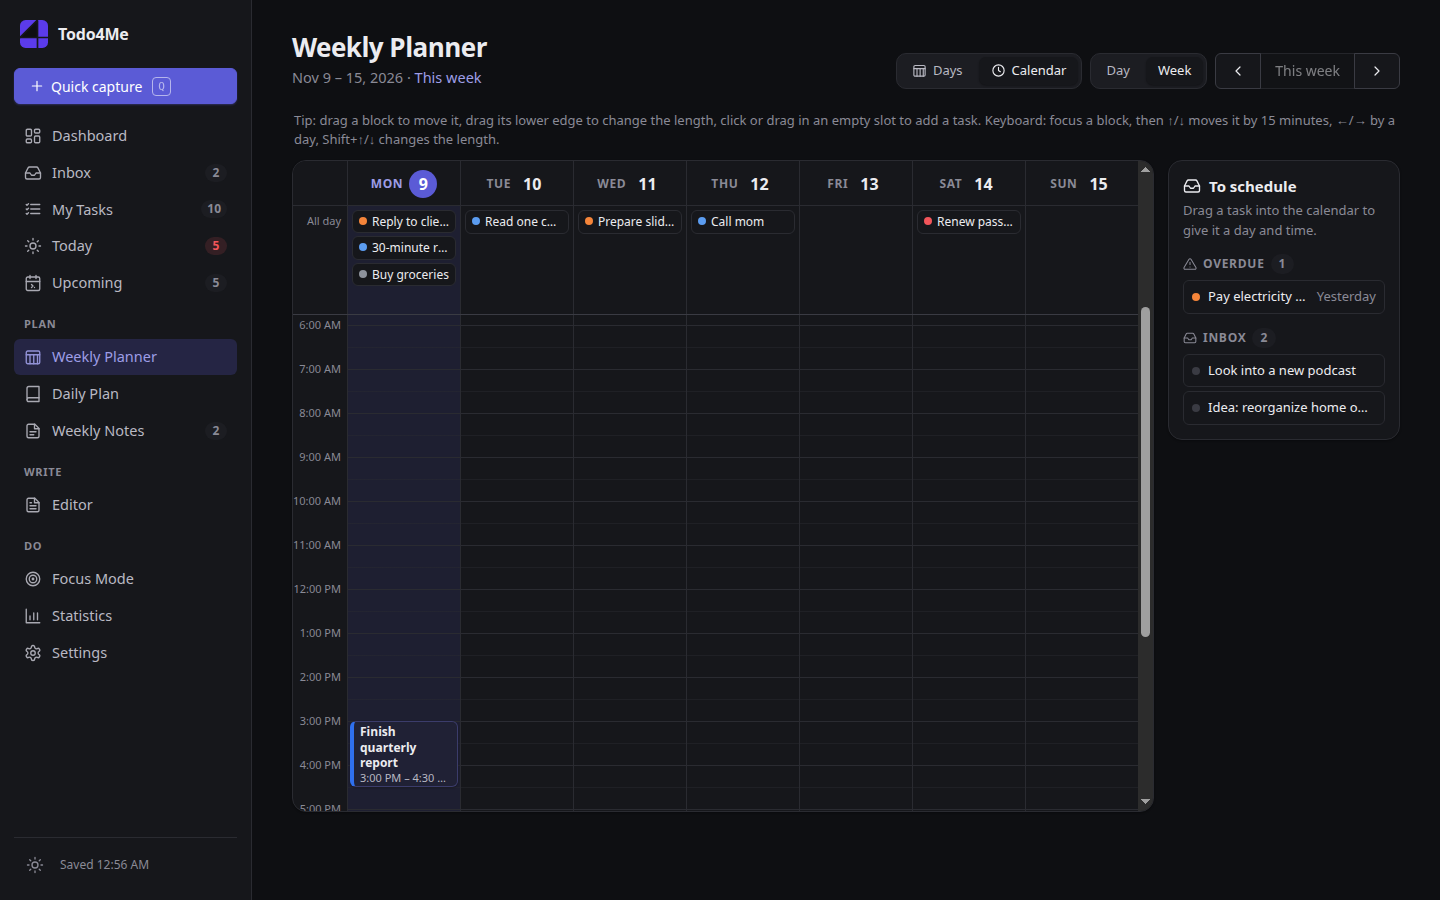
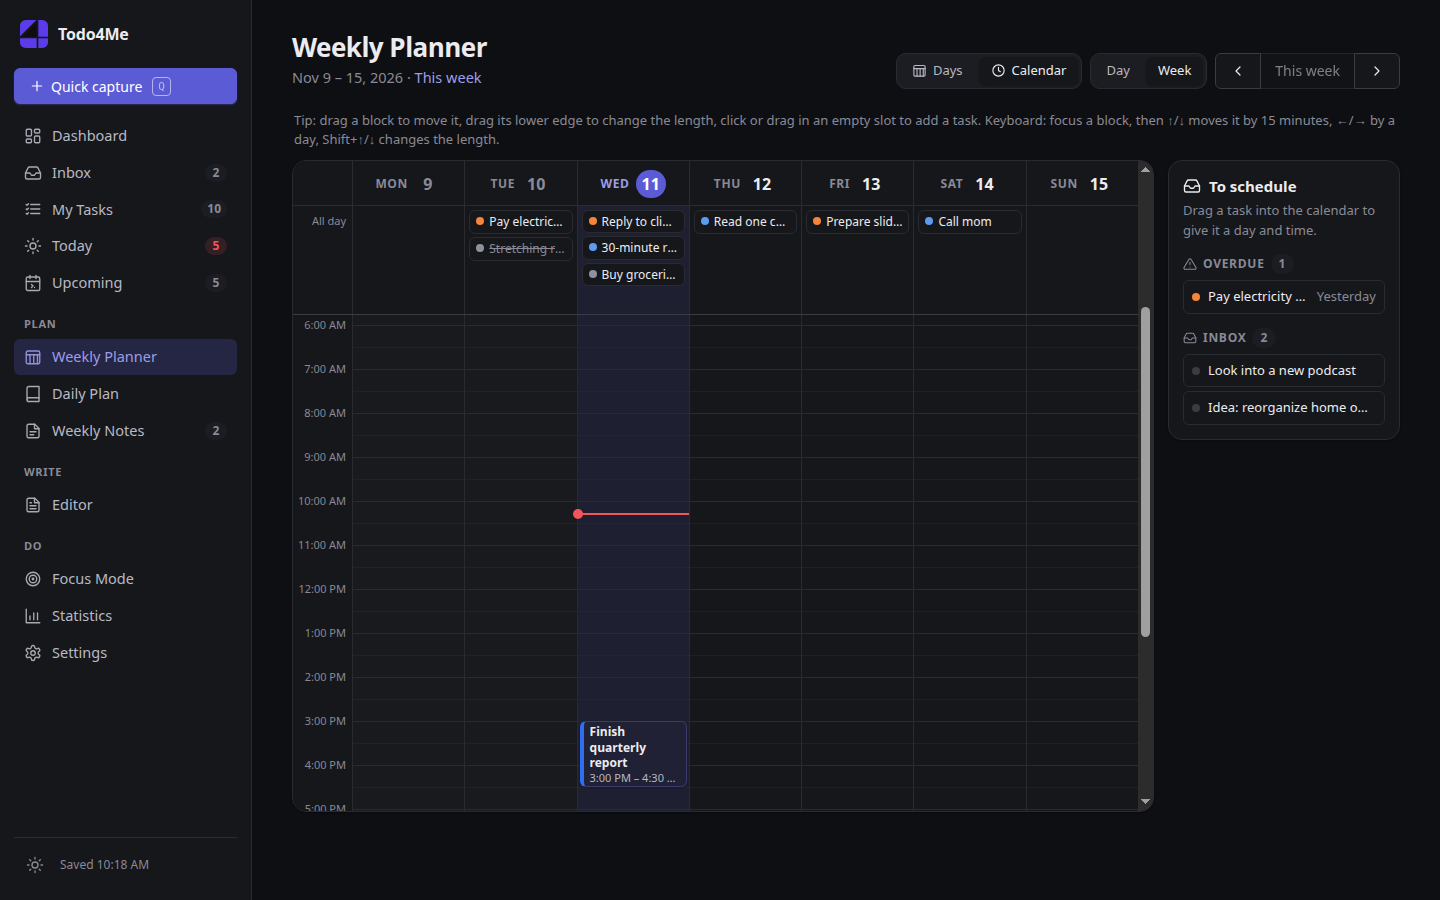
Todo4Me 2.6.1: calendar at large text size, Ctrl++ zoom

diff --git a/css/styles.css b/css/styles.css
@@ -725,11 +725,14 @@ body.is-focus .main { max-width: 1040px; padding-bottom: 40px; }
 .import-summary { display: grid; grid-template-columns: 1fr 1fr; gap: 6px; padding: 12px 16px; margin: 12px 0; list-style: none; background: var(--surface-2); border-radius: var(--radius); }
 
 /* ---------- Calendar (Weekly Planner → Calendar view, js/calendar.js) ---------- */
-.cal { --cal-hour: 44px; --cal-gutter: 54px; display: grid; grid-template-columns: minmax(0, 1fr) 232px; gap: 14px; align-items: start; user-select: none; -webkit-user-select: none; }
+.cal { --cal-hour: 44px; --cal-lab: calc(11px * var(--font-scale)); --cal-gutter: calc(var(--cal-lab) * 5 + 4px); /* the time column grows with the text size (labels are right-aligned in it) */ display: grid; grid-template-columns: minmax(0, 1fr) 232px; gap: 14px; align-items: start; user-select: none; -webkit-user-select: none; }
 .cal__main { min-width: 0; background: var(--surface); border: 1px solid var(--border); border-radius: var(--radius-lg); box-shadow: var(--shadow-sm); overflow: hidden; }
-.cal__scroller { position: relative; overflow-y: auto; overscroll-behavior: contain; height: min(calc(16 * var(--cal-hour) + 110px), calc(100vh - 250px)); min-height: 380px; }
+.cal__scroller { position: relative; overflow: auto; overscroll-behavior: contain; height: min(calc(16 * var(--cal-hour) + 110px), calc(100vh - 250px)); min-height: 380px; }
 .cal__top { position: sticky; top: 0; z-index: 5; background: var(--surface); border-bottom: 1px solid var(--border-strong); }
 .cal__row { display: grid; grid-template-columns: var(--cal-gutter) repeat(var(--cal-days), minmax(0, 1fr)); }
+/* day columns never get unreadably narrow: below the minimum width the calendar scrolls sideways (header and grid together) */
+.cal__row > :first-child { position: sticky; left: 0; z-index: 3; background: var(--surface); } /* time column stays visible when scrolled sideways */
+.cal__top, .cal__grid { min-width: calc(var(--cal-gutter) + var(--cal-days) * 84px * var(--font-scale)); }
 .cal__dh { padding: 6px 3px 4px; border-left: 1px solid var(--border); min-width: 0; }
 .cal__dhbtn { width: 100%; display: flex; align-items: center; justify-content: center; gap: 6px; padding: 3px; border: 0; background: none; border-radius: var(--radius-sm); color: inherit; }
 button.cal__dhbtn:hover { background: var(--surface-2); }
@@ -739,7 +742,7 @@ button.cal__dhbtn:hover { background: var(--surface-2); }
 .cal__dh.is-today .cal__num { background: var(--accent); color: var(--accent-fg); }
 .cal__dh.is-past .cal__num { color: var(--muted); }
 .cal__allday { border-top: 1px solid var(--border); }
-.cal__adlabel { padding: 7px 6px 0 0; font-size: calc(11px * var(--font-scale)); color: var(--muted); text-align: right; }
+.cal__adlabel { padding: 7px 6px 0 0; font-size: var(--cal-lab); color: var(--muted); text-align: right; }
 .cal__ad { position: relative; display: flex; flex-direction: column; gap: 3px; min-width: 0; min-height: 34px; max-height: 108px; overflow-y: auto; padding: 4px; border-left: 1px solid var(--border); }
 .cal__ad.is-today { background: var(--accent-softer); }
 .cal__ad.is-drop { background: var(--accent-soft); outline: 2px dashed var(--accent); outline-offset: -3px; }
@@ -755,7 +758,7 @@ button.cal__dhbtn:hover { background: var(--surface-2); }
 .cal-chip--ev:hover { background: color-mix(in srgb, var(--ev) 24%, var(--surface)); }
 .cal__grid { position: relative; height: calc(24 * var(--cal-hour)); }
 .cal__hours { position: relative; }
-.cal__hour { position: absolute; right: 6px; transform: translateY(-50%); font-size: calc(11px * var(--font-scale)); color: var(--muted); font-variant-numeric: tabular-nums; white-space: nowrap; }
+.cal__hour { position: absolute; right: 6px; transform: translateY(-50%); font-size: var(--cal-lab); color: var(--muted); font-variant-numeric: tabular-nums; white-space: nowrap; }
 .cal__col {
   position: relative; min-width: 0; border-left: 1px solid var(--border); cursor: cell;
   background-image: repeating-linear-gradient(to bottom, var(--border) 0 1px, transparent 1px calc(var(--cal-hour) / 2),
@@ -829,7 +832,7 @@ body.cal-dragging, body.cal-dragging * { cursor: grabbing !important; user-selec
 /* ==========================================================================
    Responsive
    ========================================================================== */
-@media (max-width: 1100px) {
+@media (max-width: 1280px) {
   .cal { grid-template-columns: minmax(0, 1fr); }
   .cal-side { position: static; max-height: none; }
 }

diff --git a/electron/main.js b/electron/main.js
@@ -231,6 +231,7 @@ function createWindow(forceShow) {
   mainWindow.on('session-end', sessionEnding);
   mainWindow.on('closed', () => { if (mainWindow === win) mainWindow = null; });
 
+  setupZoom(mainWindow);
   mainWindow.loadFile(INDEX);
   if (isDev) mainWindow.webContents.openDevTools({ mode: 'detach' });
 }
@@ -362,6 +363,52 @@ function pruneBackups(prefix) {
   });
 }
 
+/* ---------- Zoom (Ctrl +, Ctrl -, Ctrl 0) ---------- */
+// The built-in zoomIn role listens for CommandOrControl+Plus, which does not fire on many layouts
+// ("+" is a plain key on a German keyboard but Shift+= on a US one). So the keys are matched here on the
+// produced character (input.key), and the menu items call the same functions.
+const ZOOM_STEPS = [0.5, 0.67, 0.75, 0.8, 0.9, 1, 1.1, 1.25, 1.5, 1.75, 2, 2.5, 3];
+function currentWindow() {
+  const win = mainWindow || BrowserWindow.getAllWindows()[0];
+  return win && !win.isDestroyed() ? win : null;
+}
+function applyZoom(win) {
+  if (!win || win.isDestroyed() || win.webContents.isDestroyed()) return;
+  try { win.webContents.setZoomFactor(background.getZoom()); } catch (e) { /* ignore */ }
+}
+/** dir: 1 = zoom in, -1 = zoom out, 0 = reset to 100 %. Moves to the next step relative to the current factor. */
+function zoomBy(dir, win) {
+  win = win || currentWindow();
+  if (!win) return;
+  const cur = background.getZoom();
+  let next = 1;
+  if (dir > 0) next = ZOOM_STEPS.find((z) => z > cur + 0.001) || ZOOM_STEPS[ZOOM_STEPS.length - 1];
+  else if (dir < 0) next = [...ZOOM_STEPS].reverse().find((z) => z < cur - 0.001) || ZOOM_STEPS[0];
+  background.setZoom(next);
+  applyZoom(win);
+}
+/** Which zoom command a key press means (null = none). Alt is excluded (AltGr on German layouts, Ctrl+Alt+0 in the editor). */
+function zoomKeyDir(input) {
+  if (input.type !== 'keyDown' || input.alt || !(input.control || input.meta)) return null;
+  if (input.key === '+' || input.key === '=' || input.code === 'NumpadAdd') return 1;
+  if (input.key === '-' || input.key === '_' || input.code === 'NumpadSubtract') return -1;
+  if (input.key === '0' && !input.shift) return 0;
+  return null;
+}
+function setupZoom(win) {
+  const wc = win.webContents;
+  wc.on('before-input-event', (event, input) => {
+    const dir = zoomKeyDir(input);
+    if (dir === null) return;
+    event.preventDefault();
+    zoomBy(dir, win);
+  });
+  // A (re)load or navigation can reset the factor: apply the saved one again.
+  wc.on('dom-ready', () => applyZoom(win));
+  wc.on('did-finish-load', () => applyZoom(win));
+  applyZoom(win);
+}
+
 /* ---------- Menu ---------- */
 // meta.accel tells the page the command came from a keyboard shortcut (so the editor
 // can keep e.g. Ctrl+I for italic while typing).
@@ -429,9 +476,10 @@ function buildMenu() {
         viewRole('reload', 'menu.reload'),
         viewRole('toggleDevTools', 'menu.devTools'),
         { type: 'separator' },
-        viewRole('resetZoom', 'menu.resetZoom'),
-        viewRole('zoomIn', 'menu.zoomIn'),
-        viewRole('zoomOut', 'menu.zoomOut'),
+        // Keys are handled in setupZoom() (registerAccelerator: false = only show the shortcut in the label).
+        { label: T('menu.resetZoom'), accelerator: 'CmdOrCtrl+0', registerAccelerator: false, click: () => zoomBy(0) },
+        { label: T('menu.zoomIn'), accelerator: 'CmdOrCtrl+Plus', registerAccelerator: false, click: () => zoomBy(1) },
+        { label: T('menu.zoomOut'), accelerator: 'CmdOrCtrl+-', registerAccelerator: false, click: () => zoomBy(-1) },
         { type: 'separator' },
         viewRole('togglefullscreen', 'menu.fullscreen'),
       ],

diff --git a/electron/background.js b/electron/background.js
@@ -32,7 +32,7 @@ const HOTKEYS = [
 // Linux: GNOME has no tray by default and Wayland blocks global shortcuts, so both are off there until the
 // user turns them on (only the defaults differ; a saved choice always wins, see sanitize()).
 const LINUX = process.platform === 'linux';
-const DEFAULTS = Object.freeze({ closeToTray: !LINUX, openAtLogin: false, hotkeyEnabled: !LINUX, hotkey: HOTKEYS[0].id, trayHintShown: false });
+const DEFAULTS = Object.freeze({ closeToTray: !LINUX, openAtLogin: false, hotkeyEnabled: !LINUX, hotkey: HOTKEYS[0].id, trayHintShown: false, zoom: 1 });
 const snoozeLabel = () => T('notif.snooze');
 
 let ctx = null;          // { file, iconPath, showWindow(), send(action), notificationClick(id, action), quit() }
@@ -53,6 +53,7 @@ function sanitize(s) {
     hotkeyEnabled: typeof s.hotkeyEnabled === 'boolean' ? s.hotkeyEnabled : DEFAULTS.hotkeyEnabled,
     hotkey: HOTKEYS.some((h) => h.id === s.hotkey) ? s.hotkey : DEFAULTS.hotkey,
     trayHintShown: s.trayHintShown === true,
+    zoom: typeof s.zoom === 'number' && s.zoom >= 0.25 && s.zoom <= 5 ? s.zoom : DEFAULTS.zoom, // window zoom (Ctrl +/-/0), see main.js
   };
 }
 function load() {
@@ -297,8 +298,12 @@ function refreshLanguage() {
   if (tray && !tray.isDestroyed()) { try { tray.setContextMenu(trayMenu()); } catch (e) { /* ignore */ } }
 }
 
+/** Window zoom factor (1 = 100 %), saved with the other desktop prefs (not in the task data). */
+function getZoom() { return settings.zoom; }
+function setZoom(z) { settings.zoom = sanitize({ zoom: z }).zoom; save(); }
+
 module.exports = {
-  refreshLanguage, HIDDEN_ARG, HOTKEYS, init, state, setSettings, shouldHideOnClose, startHidden, onHidden, notify,
+  getZoom, setZoom, refreshLanguage, HIDDEN_ARG, HOTKEYS, init, state, setSettings, shouldHideOnClose, startHidden, onHidden, notify,
   get tray() { return tray; },
   get settings() { return Object.assign({}, settings); },
   get shown() { return shown.slice(); },

diff --git a/README.md b/README.md
@@ -11,7 +11,7 @@
 weekly notes, reminders, and a document editor with PDF export. Everything runs **offline on your computer**, with no account and no cloud.
 There is a desktop app for Windows and Linux (Electron) and a browser version.
 
-![Version](https://img.shields.io/badge/Version-2.6.0-5b5bd6)
+![Version](https://img.shields.io/badge/Version-2.6.1-5b5bd6)
 ![Platform](https://img.shields.io/badge/Platform-Windows%20%7C%20Linux-0078d4)
 ![Offline](https://img.shields.io/badge/runs-offline-2e9e5b)
 ![License: MIT](https://img.shields.io/badge/License-MIT-yellow)
@@ -24,9 +24,9 @@ There is a desktop app for Windows and Linux (Electron) and a browser version.
 
 ### Windows
 
-1. On the **[latest release](https://github.com/muelgerhbf/todo4me/releases/latest)** page (currently [2.6.0](https://github.com/muelgerhbf/todo4me/releases/tag/v2.6.0)), download one of these files under *Assets*:
-   - **`Todo4Me-Setup-2.6.0.exe`**: the installer (recommended). Double-click it and follow the steps. No admin rights needed; it creates a desktop shortcut and a Start menu entry. The installed version **updates itself automatically**.
-   - **`Todo4Me-2.6.0-portable.exe`**: runs without installation, e.g. from a USB stick. It does **not** update itself.
+1. On the **[latest release](https://github.com/muelgerhbf/todo4me/releases/latest)** page (currently [2.6.1](https://github.com/muelgerhbf/todo4me/releases/tag/v2.6.1)), download one of these files under *Assets*:
+   - **`Todo4Me-Setup-2.6.1.exe`**: the installer (recommended). Double-click it and follow the steps. No admin rights needed; it creates a desktop shortcut and a Start menu entry. The installed version **updates itself automatically**.
+   - **`Todo4Me-2.6.1-portable.exe`**: runs without installation, e.g. from a USB stick. It does **not** update itself.
 2. **Windows SmartScreen:** The files are not digitally signed (a code-signing certificate costs money). If you see "Windows protected your PC",
    choose **More info → Run anyway**.
 3. **Your data** is stored on your computer in the folder `%APPDATA%\Todo4Me` (e.g. `C:\Users\<Name>\AppData\Roaming\Todo4Me`); the installed and portable versions share it.
@@ -38,10 +38,10 @@ From the same [release page](https://github.com/muelgerhbf/todo4me/releases/late
 
 | Distribution | File | Install |
 |---|---|---|
-| Ubuntu, Debian, Mint (recommended on Ubuntu) | `Todo4Me-2.6.0-amd64.deb` | `sudo apt install ./Todo4Me-2.6.0-amd64.deb` |
-| Fedora, RHEL, openSUSE | `Todo4Me-2.6.0-x86_64.rpm` | `sudo dnf install ./Todo4Me-2.6.0-x86_64.rpm` |
-| Any distribution, self-updating | `Todo4Me-2.6.0-x86_64.AppImage` | `chmod +x Todo4Me-2.6.0-x86_64.AppImage && ./Todo4Me-2.6.0-x86_64.AppImage` |
-| Any distribution, no installation | `Todo4Me-2.6.0-x64.tar.gz` | `tar xzf Todo4Me-2.6.0-x64.tar.gz`, then run `todo4me` from the extracted folder |
+| Ubuntu, Debian, Mint (recommended on Ubuntu) | `Todo4Me-2.6.1-amd64.deb` | `sudo apt install ./Todo4Me-2.6.1-amd64.deb` |
+| Fedora, RHEL, openSUSE | `Todo4Me-2.6.1-x86_64.rpm` | `sudo dnf install ./Todo4Me-2.6.1-x86_64.rpm` |
+| Any distribution, self-updating | `Todo4Me-2.6.1-x86_64.AppImage` | `chmod +x Todo4Me-2.6.1-x86_64.AppImage && ./Todo4Me-2.6.1-x86_64.AppImage` |
+| Any distribution, no installation | `Todo4Me-2.6.1-x64.tar.gz` | `tar xzf Todo4Me-2.6.1-x64.tar.gz`, then run `todo4me` from the extracted folder |
 
 - **AppImage needs FUSE 2.** On Ubuntu 22.04 and newer install it with `sudo apt install libfuse2t64` (older: `libfuse2`), or start the AppImage with `--appimage-extract-and-run`.
 - **Sandbox on Ubuntu 23.10+:** Ubuntu restricts unprivileged user namespaces with AppArmor. The deb and rpm packages install an AppArmor profile and keep Chromium's sandbox, which is why they are recommended there.
@@ -201,7 +201,7 @@ Without internet nothing disruptive happens: automatic checks fail silently, a m
 The portable `.exe` and the developer version (`npm start`) do not update themselves and say so in the settings.
 
 > **One-time step for existing users of versions 1.0.0–2.1.1:** 1.0.0 had no update feature, and 2.0.0–2.1.1 looked for updates in a former repository.
-> Install `Todo4Me-Setup-2.6.0.exe` **once** over the old version (your data is kept). From then on, all further versions arrive automatically.
+> Install `Todo4Me-Setup-2.6.1.exe` **once** over the old version (your data is kept). From then on, all further versions arrive automatically.
 
 What changed in each version is listed in the [CHANGELOG](CHANGELOG.md).
 
@@ -259,7 +259,8 @@ All shortcuts of the web app (`N`, `Q`, `/`, `G` + letter …) keep working. In 
 | File → Open backups folder / Open data folder | |
 | Go → Dashboard … Focus Mode / Settings | `Ctrl+1` … `Ctrl+9` / `Ctrl+,` |
 | Go → Editor | `Ctrl+Shift+D` |
-| View → Zoom, Full screen, Reload | `Ctrl+Plus/Minus/0`, `F11`, `Ctrl+R` |
+| View → Zoom in / Zoom out / Actual size | `Ctrl++` (also `Ctrl+=` and numpad `+`) / `Ctrl+-` / `Ctrl+0`; steps 50–300 %, remembered across restarts |
+| View → Full screen, Reload | `F11`, `Ctrl+R` |
 | Help → Check for updates | |
 | **System-wide** (also in other programs): Quick capture | `Ctrl+Alt+Space` (configurable) |
 
@@ -374,6 +375,7 @@ The header of the Weekly Planner has a **Days | Calendar** switch. *Days* is the
 *Calendar* shows the same week (same week start, same navigation) as an **hourly grid**, or a single day (**Day | Week**; clicking a day header opens it).
 The grid opens at 06:00 and scrolls from 00:00 to 24:00; a red line marks the current time. Your choice is remembered, and `#/planner?view=calendar` opens the view directly
 (this is what "Open calendar" in the dashboard uses). On narrow screens (≤ 760 px) the calendar always shows one day.
+The time column adapts to the text size, so the hour labels stay readable. In narrow windows the day columns keep a minimum width and the calendar scrolls sideways (the time column stays visible).
 
 | In the calendar | What happens |
 |---|---|
@@ -517,8 +519,8 @@ Releases are built by the GitHub Actions workflow `.github/workflows/release.yml
 **For every update**
 
 1. Increase the version number in `package.json` (it must **always be greater** than the last one) and add the section to `CHANGELOG.md`. Merge to `main`.
-2. Push the tag: `git tag v2.6.0 && git push origin v2.6.0` (the tag must equal `v` + the `package.json` version).
-3. The workflow builds all files and creates a **draft** release named *Todo4Me 2.6.0* with the CHANGELOG section as notes. It contains both `latest.yml` (Windows) and `latest-linux.yml` (Linux AppImage).
+2. Push the tag: `git tag v2.6.1 && git push origin v2.6.1` (the tag must equal `v` + the `package.json` version).
+3. The workflow builds all files and creates a **draft** release named *Todo4Me 2.6.1* with the CHANGELOG section as notes. It contains both `latest.yml` (Windows) and `latest-linux.yml` (Linux AppImage).
 4. On GitHub under *todo4me → Releases*, check the draft and click **Publish release**. From now on everyone gets the update.
 
 Running the workflow manually (*Actions → Release → Run workflow*) only builds and attaches the files as artifacts; it creates no release.

diff --git a/CHANGELOG.md b/CHANGELOG.md
@@ -4,6 +4,12 @@ All notable changes to Todo4Me (Windows and Linux desktop apps and web app) are 
 The format is based on [Keep a Changelog](https://keepachangelog.com/en/1.1.0/), and versioning follows [Semantic Versioning](https://semver.org/).
 Release tags use the prefix `v` (versions up to 2.3.0 use the former prefix `windows-v`).
 
+## [2.6.1] - 2026-11-11
+
+### Fixed
+- **Weekly Planner calendar at large text size:** at a text size of 125 % the hour labels slid out of the calendar on the left. The time column now grows with the text size, so the labels stay inside and aligned. The day columns keep a minimum width and the calendar scrolls sideways (the time column stays visible) instead of squeezing the days. The "To schedule" panel now moves below the calendar up to a window width of 1280 px (before 1100 px), which gives the calendar more room.
+- **Desktop app zoom:** `Ctrl++` (also `Ctrl+=` and numpad `+`) now zooms in on all keyboard layouts; before, only `Ctrl+-` worked (on German keyboards, for example). `Ctrl+-` zooms out and `Ctrl+0` resets. The steps are 50 to 300 % like in Chrome, and the View menu uses the same steps. The zoom level is remembered across restarts (stored in `desktop-settings.json` in the app's data folder, not in your task data).
+
 ## [2.6.0] - 2026-11-09
 
 ### Changed
@@ -131,6 +137,7 @@ Release tags use the prefix `v` (versions up to 2.3.0 use the former prefix `win
 - Light/dark mode, accent colors, responsive layout, keyboard shortcuts.
 - Data safety: check on load, daily backup (14 days), damaged data is isolated and restored from the backup; data is stored at a fixed location in `%APPDATA%\Todo4Me`.
 
+[2.6.1]: https://github.com/muelgerhbf/todo4me/releases/tag/v2.6.1
 [2.6.0]: https://github.com/muelgerhbf/todo4me/releases/tag/v2.6.0
 [2.5.0]: https://github.com/muelgerhbf/todo4me/releases/tag/v2.5.0
 [2.4.0]: https://github.com/muelgerhbf/todo4me/releases/tag/v2.4.0

diff --git a/PROJECT_LOG.md b/PROJECT_LOG.md
@@ -646,3 +646,18 @@ Not verified: rpm install on a real rpm distribution (argv unit checks only), Wi
 **Open**
 
 - Enable Pages after the merge (Settings -> Pages -> Source: GitHub Actions); the workflow then deploys on push to `main`.
+
+### Step 31: Calendar at large text size, Ctrl++ zoom (2.6.1)
+
+**Root causes**
+
+- **Calendar:** the time column had a fixed width in px, so at a text size of 125 % the (larger) hour labels overflowed to the left and out of the calendar. The day columns were squeezed to whatever width was left, and the "To schedule" panel only moved below the calendar at 1100 px.
+- **Zoom:** Electron's built-in `Ctrl+Plus` accelerator does not fire on German keyboard layouts (`+` needs no Shift there), so only `Ctrl+-` and `Ctrl+0` worked.
+
+**Fixes**
+
+- Time column width scales with the text size; day columns get a minimum width and the calendar scrolls sideways with the time column kept visible (sticky); the side panel moves below the calendar up to 1280 px window width.
+- Own zoom handling for `Ctrl++`, `Ctrl+=` and numpad `+` (plus `Ctrl+-`, `Ctrl+0`), steps 50-300 % like Chrome; the View menu uses the same steps. The level is stored in `desktop-settings.json` in the data folder (not in the task data) and restored at startup.
+- README (zoom shortcuts, calendar note), CHANGELOG, version 2.6.1; the two calendar screenshots were regenerated from the running app (sample data, 1440x900).
+
+**Tests** (Linux, sequential): functional 658, ICS 62, editor 166 (with `PDFTEXT=tests/pdftext.mjs`), desktop (Electron) 172, 0 failed, 0 page errors. Manual test by the user: `Ctrl++` works on a real German keyboard and the zoom level persists across restarts.
